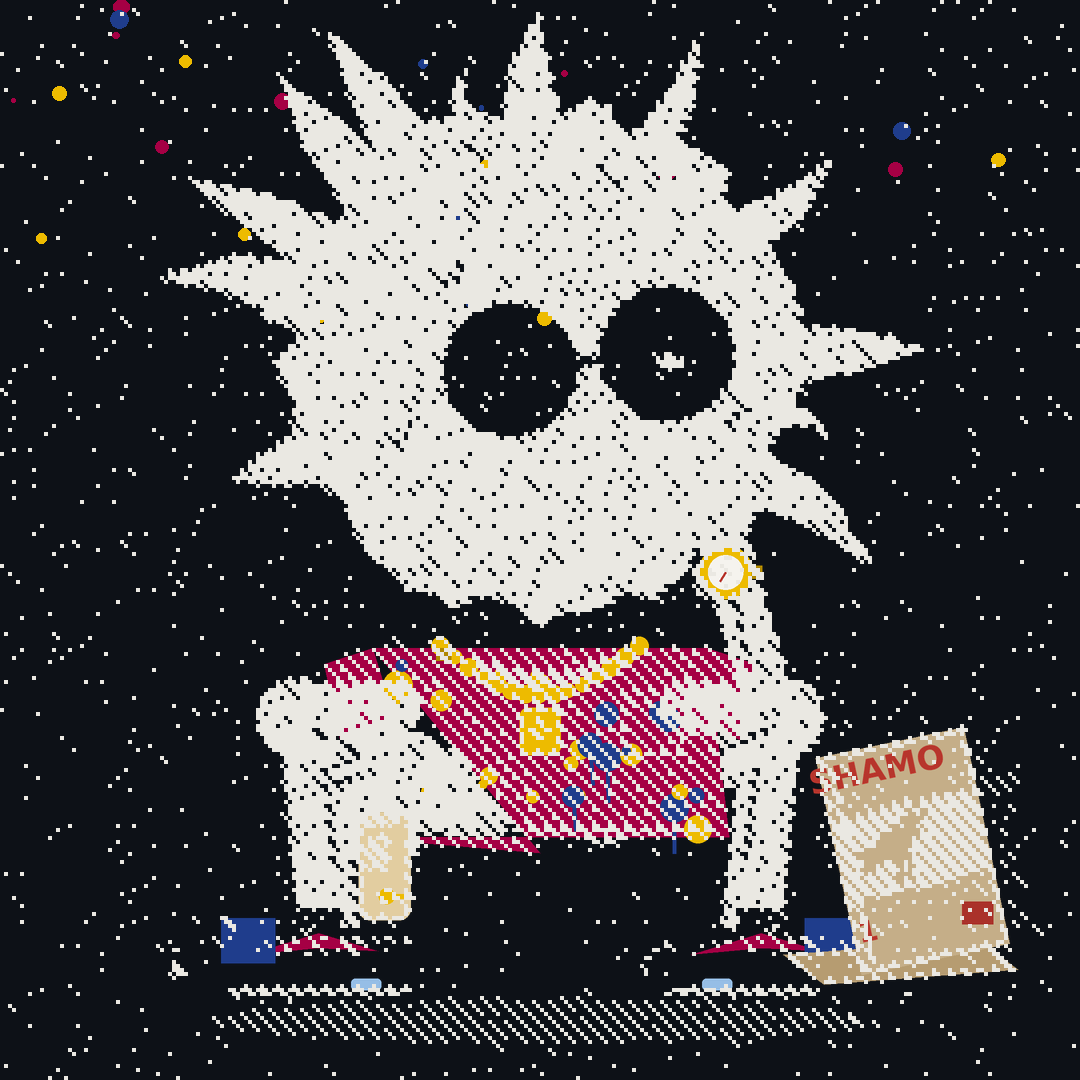
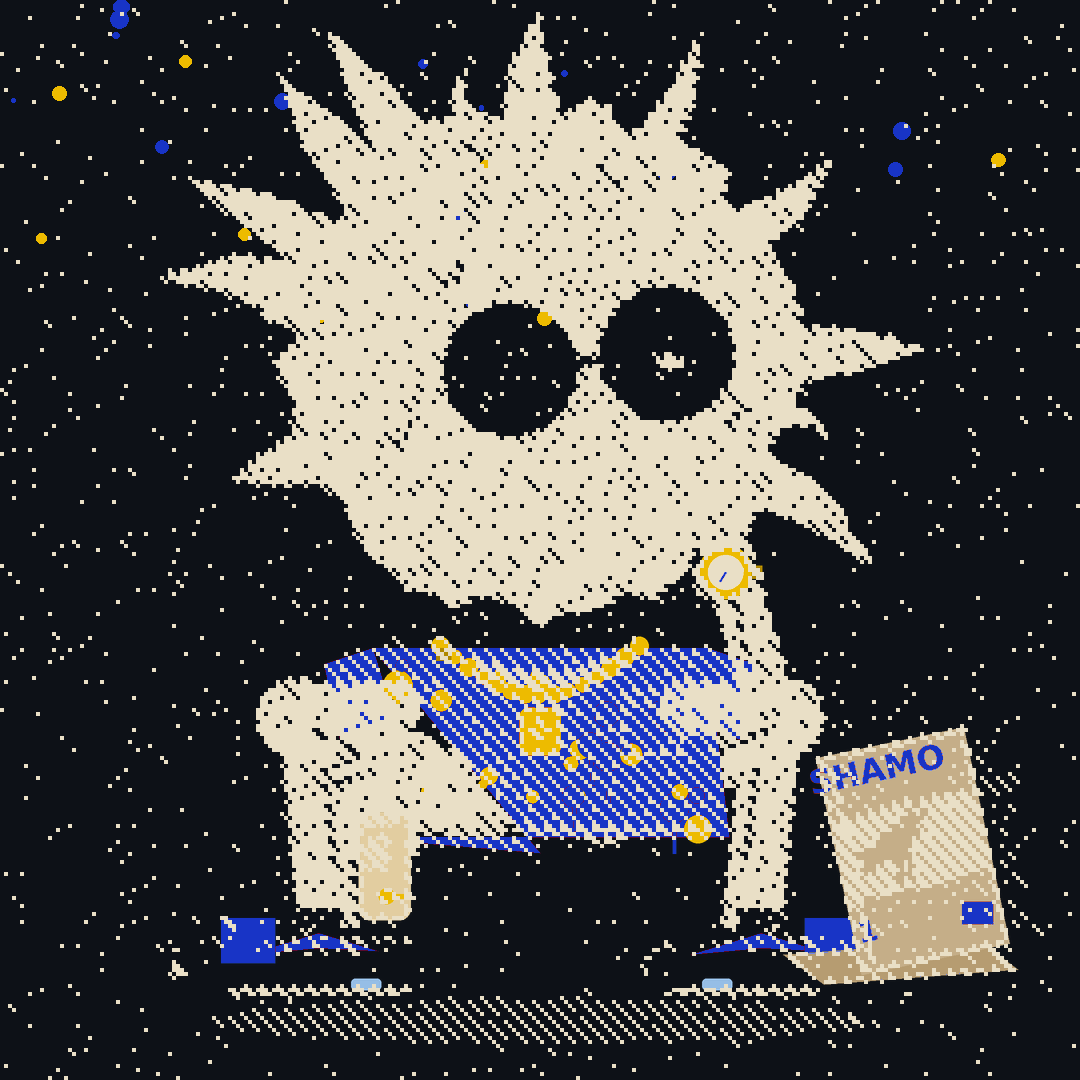
README · TRAME OUTREMER — scene animee, assets recolores cobalt/ivoire, separateurs pigment

diff --git a/README.md b/README.md
@@ -1,6 +1,10 @@
+<div align="center">
+  <img src="assets/scene_hero.png" width="100%" alt="le perso marche sous une pluie d'ivoire, croissant de lune, ciel cobalt — TRAME · OUTREMER">
+</div>
+
 <picture>
   <source media="(prefers-color-scheme: dark)" srcset="assets/hero_dark.png">
-  <img align="left" src="assets/hero_light.png" width="400" alt="le perso en squat — chaîne en or, montre, t-shirt éclaboussé, tomes de Shamo contre la jambe">
+  <img align="left" src="assets/hero_light.png" width="400" alt="le perso en squat — chaîne en or, montre, t-shirt éclaboussé cobalt, tomes de Shamo">
 </picture>
 
 <h1>Phyes</h1>
@@ -22,17 +26,17 @@
 
 <br clear="left">
 
-<hr>
+<img src="assets/divider.png" width="100%" height="14" alt="">
 
 <div align="center">
   <img src="assets/metrics.svg" alt="metrics" width="100%">
 </div>
 
 <div align="center">
-  <img src="https://streak-stats.demolab.com?user=PhyesGG&hide_border=true&background=00000000&stroke=8b949e&ring=e8e6df&fire=e8e6df&currStreakLabel=8b949e&currStreakNum=e8e6df&sideNums=e8e6df&sideLabels=8b949e&dates=6a6863" alt="streak" height="160">
+  <img src="https://streak-stats.demolab.com?user=PhyesGG&hide_border=true&background=00000000&stroke=8b949e&ring=4B64D8&fire=EDBB00&currStreakLabel=8b949e&currStreakNum=E9DFC6&sideNums=E9DFC6&sideLabels=8b949e&dates=6a6863" alt="streak" height="160">
 </div>
 
-<hr>
+<img src="assets/divider.png" width="100%" height="14" alt="">
 
 <picture>
   <source media="(prefers-color-scheme: dark)" srcset="assets/dev_dark.png">
@@ -41,23 +45,24 @@
 
 <h3><code>$ stack --most-used</code></h3>
 
-<p>TypeScript &amp; JavaScript for the bots, Python for the agents,<br>
-Nix for the machines — and whatever it takes for the rest.</p>
+<p>TypeScript &amp; JavaScript for the bots, Python for the agents<br>
+and the little watchers, Nix for the machines —<br>
+and whatever it takes for the rest.</p>
 
 <br clear="right">
 
-<hr>
+<img src="assets/divider.png" width="100%" height="14" alt="">
 
 <div align="center">
-  <img src="assets/spin.gif" width="290" alt="le perso en 3D qui tourne, tramé image par image">
+  <img src="assets/spin.gif" width="280" alt="le perso en 3D qui tourne, tramé image par image">
   <br>
-  <sub>hand-built 3D, halftone-dithered frame by frame — same trame as everything else here</sub>
+  <sub>hand-built 3D, halftone-dithered frame by frame — même trame, nouvelles encres</sub>
 </div>
 
 <br>
 
-<img src="https://github-readme-activity-graph.vercel.app/graph?username=PhyesGG&bg_color=00000000&color=8b949e&line=e8e6df&point=e8e6df&area=true&area_color=30363d&hide_border=true" alt="activity" width="100%">
+<img src="https://github-readme-activity-graph.vercel.app/graph?username=PhyesGG&bg_color=00000000&color=8b949e&line=E9DFC6&point=EDBB00&area=true&area_color=1a2a66&hide_border=true" alt="activity" width="100%">
 
 <div align="center">
-  <sub>character &amp; artwork: original 1-bit dither work — <b>Phyes</b></sub>
+  <img src="assets/etoile.png" width="16" alt=""> <sub>character &amp; artwork: original work, TRAME · OUTREMER — <b>Phyes</b></sub>
 </div>
